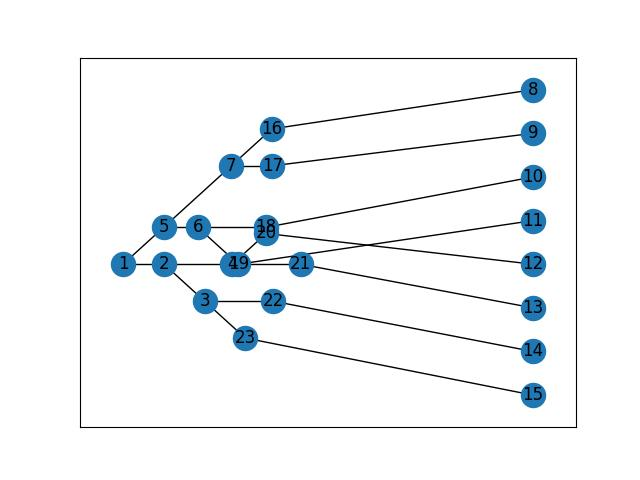
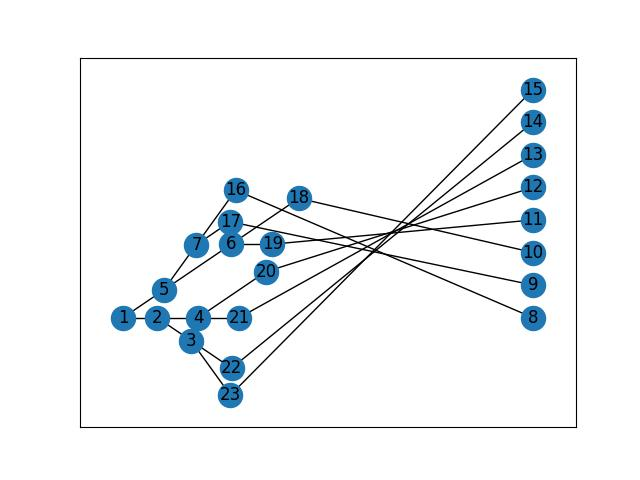
station track coordinate modify

diff --git a/main.py b/main.py
@@ -29,14 +29,14 @@ class Tree:
         self.choice = c
         self.order = []
         self.preorder = [1,2,3,4,5,6,7]
-        self.inorder = [3,2,4,1,6,5,7]
+
         self.root = None
-        self.direction_list = []
+
         self.direction_index = []
         self.comb = []
         self.node_list = {}
 
-        self.l_list = [25, 30, 50]
+
         self.l_forbidden = 3
         self.total_length = 500
         self.throat_length = 300
@@ -55,6 +55,13 @@ class Tree:
         self.pass_order = list()
         self.pass_order_list = {}
         self.pass_order_length_list = list()
+
+        # changeable
+        self.inorder = [3, 2, 4, 1, 6, 5, 7]
+        self.direction_list = []
+        self.l_list = [25, 30, 50]
+        self.station_track_coordinate_startpoint = 0
+        self.station_track_space_list = []
 
         self.init()
 
@@ -82,15 +89,24 @@ class Tree:
             self.direction_index.append(i)
 
         # init station track coordinate
-        a = (self.n + 1) // 2 * self.station_track_space
-        for i in range(self.n+1):
+        # a = (self.n + 1) // 2 * self.station_track_space
+        if len(self.station_track_space_list) == 0:
+            for i in range(self.n):
+                self.station_track_space_list.append(self.station_track_space)
+
+        space = 0
+        for i in range(self.n + 1):
             id = i + 1 + self.n
             station_track_node = TreeNode(id)
-            self.node_list[id]= station_track_node
-            station_track_node.coordinate = (self.total_length, a - i * self.station_track_space)
+            self.node_list[id] = station_track_node
+            if i == 0:
+                space = self.station_track_coordinate_startpoint
+            else:
+                space += self.station_track_space_list[i-1]
+            station_track_node.coordinate = (self.total_length, space)
             self.station_track_node.append(station_track_node)
             self.coordinate_list[id] = station_track_node.coordinate
-            # self.station_track_coordinate[id] = (self.total_length, a + i * self.station_track_space)
+
         # init l list & virtual node list
         if len(self.l) == 0:
             for i in range(3 * self.n + 1):
